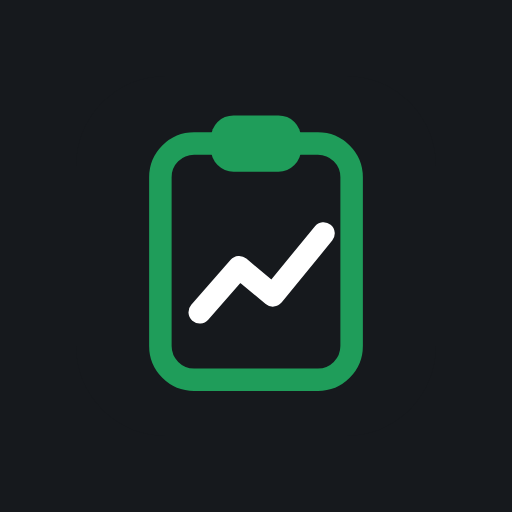
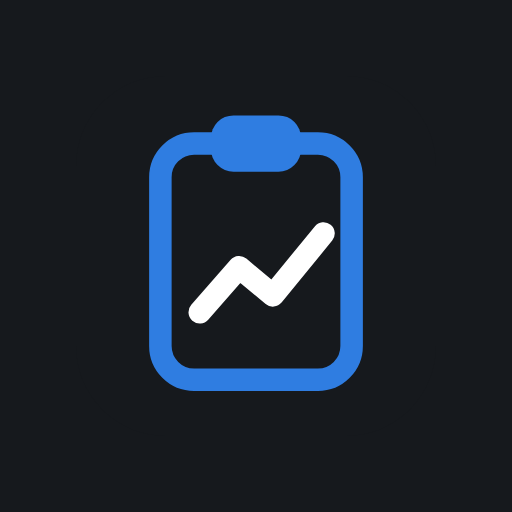
Rename to Blue Board; blue replaces every green
- Name, page titles, manifest, invite text and backup file name
- Default accent is blue (green removed, saved green accents become blue);
  new Sky blue option
- Positive numbers, "done" badges and on-budget bars are blue
- Green crew and job colors replaced with cyan and indigo
- App icons regenerated in blue

Claude-Session: https://claude.ai/code/session_01Dk7mP4ZUHrD9c3GfKoeuhX

Changed region(s): [[0.2812, 0.2188, 0.7188, 0.7812]]

diff --git a/index.html b/index.html
@@ -3,13 +3,13 @@
 <head>
 <meta charset="utf-8">
 <meta name="viewport" content="width=device-width,initial-scale=1,viewport-fit=cover">
-<title>Contractor Mainframe</title>
+<title>Blue Board</title>
 <meta name="description" content="Organize every job, track expenses, purchases, photos and crew hours, and see the real profit on each job.">
 <meta name="theme-color" content="#ffffff">
 <meta name="apple-mobile-web-app-capable" content="yes">
 <meta name="mobile-web-app-capable" content="yes">
 <meta name="apple-mobile-web-app-status-bar-style" content="default">
-<meta name="apple-mobile-web-app-title" content="Contractor Mainframe">
+<meta name="apple-mobile-web-app-title" content="Blue Board">
 <link rel="manifest" href="manifest.webmanifest">
 <link rel="icon" href="icons/icon.svg" type="image/svg+xml">
 <link rel="apple-touch-icon" href="icons/apple-touch-icon.png">
@@ -19,9 +19,9 @@
 :root{
   --bg:#f6f6f7;--surface:#ffffff;--surface2:#f3f4f6;--surface3:#e9ebee;--ink:#16191d;--muted:#5f6873;
   --line:rgba(16,24,40,.08);--line2:rgba(16,24,40,.14);
-  --hi:#17804a;--hi-dk:#0f5c34;--hi-ink:#fff;--hi-soft:rgba(23,128,74,.10);--glow:rgba(23,128,74,.28);
+  --hi:#1f63c6;--hi-dk:#164a94;--hi-ink:#fff;--hi-soft:rgba(31,99,198,.10);--glow:rgba(31,99,198,.28);
   --top-solid:#fff;--nav-float:rgba(255,255,255,.94);--bar:#3b424b;--ph:#9aa1aa;
-  --good:#1a7f4e;--good-bg:#e7f6ee;--bad:#c42b2b;--bad-bg:#fdeceb;--warn:#9a5b00;--warn-bg:#fff4dc;
+  --good:#1565c0;--good-bg:#e8f1fd;--bad:#c42b2b;--bad-bg:#fdeceb;--warn:#9a5b00;--warn-bg:#fff4dc;
   --nav:rgba(255,255,255,.88);--nav-ink:#16191d;--nav-muted:#5f6873;
   --r:20px;--r-sm:12px;--ease:cubic-bezier(.2,.7,.2,1);
   --shadow:0 1px 2px rgba(16,24,40,.05),0 8px 24px rgba(16,24,40,.06);
@@ -30,7 +30,7 @@
 :root[data-mode="dark"]{
   --bg:#0c0e11;--surface:#15181c;--surface2:#1c2025;--surface3:#262b32;--ink:#eef0f3;--muted:#98a1ac;
   --line:rgba(255,255,255,.07);--line2:rgba(255,255,255,.13);
-  --good:#45cc8f;--good-bg:rgba(69,204,143,.12);--bad:#ff7a7a;--bad-bg:rgba(255,92,92,.12);--warn:#f2b44c;--warn-bg:rgba(242,180,76,.12);
+  --good:#6aaeff;--good-bg:rgba(106,174,255,.13);--bad:#ff7a7a;--bad-bg:rgba(255,92,92,.12);--warn:#f2b44c;--warn-bg:rgba(242,180,76,.12);
   --nav:rgba(12,14,17,.82);--nav-ink:#eef0f3;--nav-muted:#98a1ac;--shadow:0 1px 0 rgba(255,255,255,.04) inset,0 12px 32px rgba(0,0,0,.32);
   --top-solid:#0c0e11;--nav-float:rgba(21,24,28,.92);--bar:#c9d0d8;--ph:#6d7680;color-scheme:dark;
 }
@@ -178,7 +178,7 @@ tfoot td{font-weight:750;border-bottom:0;border-top:1px solid var(--line2)}
 .bar{height:8px;background:var(--surface3);border-radius:999px;overflow:hidden;min-width:60px}
 .bar i{display:block;height:100%;background:var(--bar);border-radius:999px}
 .bar i.over{background:linear-gradient(90deg,#9b1c1c,var(--bad))}
-.bar i.ok{background:linear-gradient(90deg,#2f9e6c,var(--good))}
+.bar i.ok{background:linear-gradient(90deg,#1e4fa3,var(--good))}
 .mbar{display:grid;grid-template-columns:1fr 1fr;align-items:center;height:14px;min-width:120px}
 .mbar .l{display:flex;justify-content:flex-end;border-right:1px solid var(--line2);height:100%;align-items:center}
 .mbar .r{display:flex;height:100%;align-items:center}
@@ -477,9 +477,9 @@ body.gate main::before{content:"";position:fixed;inset:0;z-index:-1;pointer-even
       <div id="menu-items"></div>
     </div>
   </div>
-  <a class="brand" href="#/schedule" aria-label="Contractor Mainframe home">
+  <a class="brand" href="#/schedule" aria-label="Blue Board home">
     <svg width="32" height="32" viewBox="0 0 64 64" aria-hidden="true"><rect width="64" height="64" rx="16" fill="#16191d"/><rect x="15" y="12" width="34" height="42" rx="6" fill="none" style="stroke:var(--hi)" stroke-width="4"/><rect x="24" y="7" width="16" height="10" rx="4" style="fill:var(--hi)"/><path d="M22 42l7-8 6 5 9-11" fill="none" stroke="#fff" stroke-width="4" stroke-linecap="round" stroke-linejoin="round"/></svg>
-    <span>Contractor <em>Mainframe</em></span>
+    <span>Blue <em>Board</em></span>
   </a>
   <a class="co-top" id="co-top" href="#/profile"></a>
   <nav class="nav" aria-label="Main">
@@ -518,8 +518,8 @@ const fmtDate=s=>s?pd(s).toLocaleDateString('en-US',{month:'short',day:'numeric'
 const fmtDateY=s=>s?pd(s).toLocaleDateString('en-US',{month:'short',day:'numeric',year:'numeric'}):'';
 const toMin=t=>{const[h,m]=String(t||'0:0').split(':').map(Number);return (h||0)*60+(m||0)};
 const fmtTime=t=>{if(!t)return'';let m=toMin(t),h=Math.floor(m/60)%24,mm=m%60;const ap=h<12?'a':'p';h=h%12||12;return h+(mm?':'+pad(mm):'')+ap};
-const JOB_COLORS=['#2f6fb0','#c2571a','#2e8b57','#8a4fb5','#b8860b','#c03a5b','#1f8a8a','#6b7280'];
-const EMP_COLORS=['#2f6fb0','#2e8b57','#c2571a','#8a4fb5','#c03a5b','#1f8a8a','#b8860b','#6b7280'];
+const JOB_COLORS=['#2f6fb0','#c2571a','#0e7490','#8a4fb5','#b8860b','#c03a5b','#4f46e5','#6b7280'];
+const EMP_COLORS=['#2f6fb0','#0e7490','#c2571a','#8a4fb5','#c03a5b','#4f46e5','#b8860b','#6b7280'];
 const CATS=[['materials','Materials'],['subs','Subcontractor'],['equipment','Equipment & rentals'],['permits','Permits & fees'],['fuel','Fuel & travel'],['disposal','Dumpster & disposal'],['other','Other']];
 const CAT_NAME=Object.fromEntries(CATS);
 const EST=[['materials','Materials'],['labor','Labor'],['subs','Subcontractors'],['equipment','Equipment'],['other','Other / fees']];
@@ -610,7 +610,7 @@ function jobForm(j){const isNew=!j;j=j||{status:'active',est:{},start:today()};c
       ${field('Start',inp('start',j.start,'date'))}${field('Finish',inp('end',j.end,'date'))}</div>
       <fieldset><legend>Your estimate (what you bid it at)</legend><div class="fields three keep">
       ${EST.map(([k,l])=>field(l,moneyInp('est_'+k,e[k]))).join('')}</div>
-      <p class="note" style="margin-top:8px">Fill these in from your bid. Contractor Mainframe compares them to what you actually spend, so you can see where your estimates run high or low.</p></fieldset>
+      <p class="note" style="margin-top:8px">Fill these in from your bid. Blue Board compares them to what you actually spend, so you can see where your estimates run high or low.</p></fieldset>
       ${planFields(j)}
       ${field('Notes',`<textarea name="notes">${esc(j.notes)}</textarea>`)}`,
     onOpen:planWire,
@@ -693,7 +693,7 @@ function empForm(e){const isNew=!e;e=e||{burden:S.settings.burden,active:true,co
     body:`<div class="fields">${field('Name',inp('name',e.name,'text','required'),'full')}
       ${field('Role',inp('role',e.role,'text','placeholder="e.g. Lead carpenter"'))}${field('Phone',inp('phone',e.phone,'tel'))}
       ${field('Hourly pay',moneyInp('rate',e.rate,'required'))}${field('Labor burden %',moneyInp('burden',e.burden))}
-      ${field('Color',`<select name="color">${EMP_COLORS.map((c,i)=>opt(c,['Blue','Green','Orange','Purple','Rose','Teal','Gold','Gray'][i],e.color)).join('')}</select>`)}
+      ${field('Color',`<select name="color">${EMP_COLORS.map((c,i)=>opt(c,['Blue','Cyan','Orange','Purple','Rose','Indigo','Gold','Gray'][i],e.color)).join('')}</select>`)}
       <label class="check" style="align-self:end;min-height:42px"><input type="checkbox" name="active" ${e.active!==false?'checked':''}> Active on the crew</label></div>
       <p class="note">Labor burden covers payroll taxes, workers' comp and other costs on top of wages (often 15–30%). It's added to job costs so profit is real. A new pay rate applies to shifts added from now on.</p>`,
     onDelete:isNew?null:()=>{if(S.shifts.some(s=>s.empId===e.id)){e.active=false;toast('Marked inactive (they have hours on record)')}else S.employees=S.employees.filter(x=>x.id!==e.id);save()},
@@ -955,17 +955,17 @@ function pageProfile(){const p=S.profile||{};
   <div class="stack"><div class="card stack"><h2>Look &amp; brand</h2>
     <div class="logo-row"><div class="logo-box">${p.logo?`<img src="${esc(p.logo)}" alt="Company logo">`:'<span class="note">No logo</span>'}</div>
       <div class="btns"><label class="btn sm" style="flex-direction:row;color:var(--ink)">${p.logo?'Change logo':'Upload logo'}<input type="file" accept="image/*" id="logo-file" hidden></label>${p.logo?'<button class="btn sm ghost danger" data-act="logo-remove">Remove</button>':''}</div></div>
-    <div><div class="note" style="margin-bottom:8px">Accent color · <b>${(ACCENTS[p.accent]||ACCENTS.green)[2]}</b></div><div class="swatches">${Object.entries(ACCENTS).map(([k,[c,,n]])=>`<button class="swatch" data-act="accent" data-v="${k}" style="--c:${c}" aria-pressed="${(p.accent||'green')===k}" title="${n}" aria-label="${n}"></button>`).join('')}</div></div>
+    <div><div class="note" style="margin-bottom:8px">Accent color · <b>${(ACCENTS[p.accent]||ACCENTS.blue)[2]}</b></div><div class="swatches">${Object.entries(ACCENTS).map(([k,[c,,n]])=>`<button class="swatch" data-act="accent" data-v="${k}" style="--c:${c}" aria-pressed="${(p.accent||'blue')===k}" title="${n}" aria-label="${n}"></button>`).join('')}</div></div>
     <div><div class="note" style="margin-bottom:8px">Mode</div><div class="seg" role="group" aria-label="Mode">${[['light','Light'],['dark','Dark']].map(([k,l])=>`<button data-act="mode" data-v="${k}" aria-pressed="${(p.mode||'light')===k}">${l}</button>`).join('')}</div></div>
     <p class="note">Your company name and logo show at the top of every page, between Schedule and Jobs.</p></div>
   <div class="card stack"><h2>Your business at a glance</h2>
     <ul class="list"><li><div class="grow"><b>${S.jobs.filter(j=>j.status==='active').length} active jobs</b><small>${S.jobs.filter(j=>j.status==='bid').length} bids out · ${S.jobs.filter(j=>j.status==='done').length} finished</small></div><a class="btn sm" href="#/jobs">Jobs</a></li>
     <li><div class="grow"><b>${S.employees.filter(e=>e.active!==false).length} on the crew</b><small>${S.shifts.filter(x=>x.date>=weekStart(today())&&x.date<=addDays(weekStart(today()),6)).length} shifts this week</small></div><a class="btn sm" href="#/schedule">Schedule</a></li></ul></div>
     ${accountCard()}<p class="note">${CLOUD.user?'Profile details are saved to your account.':'Profile details are saved only on this device and included in your backup file.'}</p></div></div>`}
-const ACCENTS={green:['#17804a','#0f5c34','Money green'],red:['#dc2f33','#a91e22','Red'],blue:['#1f63c6','#164a94','Blue'],navy:['#24406e','#172b4c','Navy'],
+const ACCENTS={blue:['#1f63c6','#164a94','Blue'],sky:['#0b84d8','#0864a6','Sky blue'],red:['#dc2f33','#a91e22','Red'],navy:['#24406e','#172b4c','Navy'],
   teal:['#0f7f7a','#0a5c58','Teal'],orange:['#d9661a','#a54c10','Orange'],purple:['#6d3fc0','#502c91','Purple'],charcoal:['#3b424b','#23282e','Charcoal']};
 const rgba=(hex,a)=>{const n=parseInt(hex.slice(1),16);return `rgba(${n>>16},${(n>>8)&255},${n&255},${a})`};
-function applyTheme(){const p=S.profile||{},[c,dk]=ACCENTS[p.accent]||ACCENTS.green,r=document.documentElement;
+function applyTheme(){const p=S.profile||{},[c,dk]=ACCENTS[p.accent]||ACCENTS.blue,r=document.documentElement;
   r.style.setProperty('--hi',c);r.style.setProperty('--hi-dk',dk);r.style.setProperty('--hi-soft',rgba(c,.10));r.style.setProperty('--glow',rgba(c,.28));
   r.dataset.mode=p.mode==='dark'?'dark':'light';$('meta[name="theme-color"]').content=p.mode==='dark'?'#0c0e11':'#ffffff';
   const co=p.company,logo=p.logo?`<img src="${esc(p.logo)}" alt="">`:'';
@@ -990,7 +990,7 @@ function pageSettings(){const st=S.settings;const iOS=/iphone|ipad|ipod/i.test(n
   </div><div class="stack">
   ${accountCard()}
   <div class="card stack"><h2>Install the app</h2>
-    ${standalone?'<p>You\'re using the installed app.</p>':iOS?'<p>On iPhone or iPad: open this page in <b>Safari</b>, tap the <b>Share</b> button, then <b>Add to Home Screen</b>.</p>':`<p>Install Contractor Mainframe to get its own icon and open it full-screen, even offline.</p>${deferredInstall?'<div><button class="btn primary" data-act="install">Install app</button></div>':'<p class="note">In Chrome or Edge, use the install icon in the address bar, or the browser menu → <b>Install Contractor Mainframe</b> / <b>Add to Home screen</b>.</p>'}`}</div>
+    ${standalone?'<p>You\'re using the installed app.</p>':iOS?'<p>On iPhone or iPad: open this page in <b>Safari</b>, tap the <b>Share</b> button, then <b>Add to Home Screen</b>.</p>':`<p>Install Blue Board to get its own icon and open it full-screen, even offline.</p>${deferredInstall?'<div><button class="btn primary" data-act="install">Install app</button></div>':'<p class="note">In Chrome or Edge, use the install icon in the address bar, or the browser menu → <b>Install Blue Board</b> / <b>Add to Home screen</b>.</p>'}`}</div>
   <div class="card stack"><h2>Sample data</h2><p class="note">Load a sample company to see how everything works. It replaces what's on this device, so export a backup first if you have real data.</p>
     <div class="btns"><button class="btn" data-act="sample">Load sample data</button><button class="btn danger" data-act="erase">Erase all data</button></div>
     <p class="note"><a href="#/reset">Start over on this device</a> signs out and resets the app to its first screen.</p></div>
@@ -1011,7 +1011,7 @@ function route(){const h=(location.hash||'#/schedule').slice(2),[page,id]=h.spli
   const navKey=page==='job'?'jobs':P===pageSchedule?'schedule':P===pageMyPay?'pay':P===pageEmpCrew?'crew':P===pageEmpAccount?'profile':page;
   $$('[data-nav],[data-menu]').forEach(a=>a.removeAttribute('aria-current'));$$(`[data-nav="${navKey}"],[data-menu="${navKey}"]`).forEach(a=>a.setAttribute('aria-current','page'));
   const pr=S.profile||{},me=isEmp()?emp(CLOUD.employeeId):null;$('#menu-who').innerHTML=me?`<span class="avatar" style="background:${me.color}">${esc(initials(me.name))}</span><span><b>${esc(me.name)}</b><small>${esc(me.role||'Crew')}</small></span>`:`<span class="avatar">${esc(initials(pr.name||pr.company))}</span><span><b>${esc(pr.name||'Set up your profile')}</b><small>${esc(pr.company||'Name, company, license')}</small></span>`;
-  closeMenu();applyTheme();document.title=(S.profile?.company?S.profile.company+' · ':'')+'Contractor Mainframe';
+  closeMenu();applyTheme();document.title=(S.profile?.company?S.profile.company+' · ':'')+'Blue Board';
   hydratePhotos(v);if(keepScroll)scrollTo(0,y);else scrollTo(0,0)}
 window.addEventListener('hashchange',route);
 function closeMenu(){const m=$('#menu');if(m)m.hidden=true;$('#menu-btn')?.setAttribute('aria-expanded','false')}
@@ -1046,7 +1046,7 @@ const ACT={
     save();toast(n?`Copied ${n} shift${n>1?'s':''} from last week`:'Nothing new to copy from last week');route()},
   'export':async()=>{closeMenu();toast('Preparing backup…');const photos={};for(const p of S.photos){const b=await photoGet(p.id);if(b)photos[p.id]=await new Promise(r=>{const fr=new FileReader();fr.onload=()=>r(fr.result);fr.readAsDataURL(b)})}
     const blob=new Blob([JSON.stringify({app:'job-ledger',exportedAt:new Date().toISOString(),state:S,photos})],{type:'application/json'});
-    const a=document.createElement('a');a.href=URL.createObjectURL(blob);a.download=`contractor-mainframe-backup-${today()}.json`;document.body.appendChild(a);a.click();a.remove();setTimeout(()=>URL.revokeObjectURL(a.href),5000);toast('Backup downloaded')},
+    const a=document.createElement('a');a.href=URL.createObjectURL(blob);a.download=`blue-board-backup-${today()}.json`;document.body.appendChild(a);a.click();a.remove();setTimeout(()=>URL.revokeObjectURL(a.href),5000);toast('Backup downloaded')},
   'install':async()=>{if(!deferredInstall)return;deferredInstall.prompt();await deferredInstall.userChoice;deferredInstall=null;route()},
   'sample':a=>{if(S.jobs.length&&!armTwoStep(a,'Replaces your data. Tap again'))return;loadSample()},
   'erase':async a=>{if(!armTwoStep(a,'Erases everything. Tap again'))return;if(!memOnly)await DB.clear('photos');memPhotos.clear();S=blank();save();toast('All data erased');location.hash='#/schedule';route()},
@@ -1062,7 +1062,7 @@ document.addEventListener('change',async e=>{const t=e.target;
   else if(t.id==='import-file'){const f=t.files[0];if(!f)return;try{const d=JSON.parse(await f.text());if(d.app!=='job-ledger'||!d.state)throw 0;
       openForm({title:'Restore backup?',body:`<p>This replaces everything on this device with the backup from <b>${esc(d.exportedAt?new Date(d.exportedAt).toLocaleString():'the file')}</b>: ${d.state.jobs.length} jobs, ${d.state.expenses.length} expenses, ${Object.keys(d.photos||{}).length} photos.</p>`,submit:'Replace and restore',
         onSubmit:async()=>{if(!memOnly)await DB.clear('photos');memPhotos.clear();urlCache.clear();for(const[id,u] of Object.entries(d.photos||{})){const b=await (await fetch(u)).blob();await photoPut(id,b)}S=Object.assign(blank(),d.state);S.settings=Object.assign(blank().settings,d.state.settings);save();toast('Backup restored')}})}
-    catch(err){toast('That file isn\'t a Contractor Mainframe backup')}t.value=''}});
+    catch(err){toast('That file isn\'t a Blue Board backup')}t.value=''}});
 document.addEventListener('submit',e=>{if(e.target.id==='profile-form'){e.preventDefault();const fd=new FormData(e.target);S.profile=Object.assign(S.profile||{},Object.fromEntries(['name','title','company','phone','email','license','website','address'].map(k=>[k,String(fd.get(k)||'').trim()])));save();toast('Profile saved');route();return}
   if(e.target.id==='settings-form'){e.preventDefault();const fd=new FormData(e.target);Object.assign(S.settings,{burden:num(fd.get('burden')),otThreshold:num(fd.get('otThreshold'))||40,ot:!!fd.get('ot')});save();toast('Settings saved');route()}});
 window.addEventListener('beforeinstallprompt',e=>{e.preventDefault();deferredInstall=e;if(location.hash.startsWith('#/settings'))route()});
@@ -1086,7 +1086,7 @@ const dur=m=>`${Math.floor(m/60)}h ${pad(Math.max(0,m%60))}m`;
 const mapUrl=(la,ln)=>`https://www.google.com/maps?q=${la},${ln}`;
 function sbClient(){if(CLOUD.sb)return CLOUD.sb;if(!window.supabase||!window.supabase.createClient)return null;
   CLOUD.sb=window.supabase.createClient(SB_URL,SB_KEY,{auth:{persistSession:true,autoRefreshToken:true,detectSessionInUrl:false}});return CLOUD.sb}
-const normState=st=>Object.assign(blank(),st,{settings:Object.assign(blank().settings,st.settings||{}),profile:st.profile||{}});
+const normState=st=>{const o=Object.assign(blank(),st,{settings:Object.assign(blank().settings,st.settings||{}),profile:st.profile||{}});if(o.profile.accent==='green')o.profile.accent='blue';o.employees.forEach(e=>{if(e.color==='#2e8b57')e.color='#0e7490';if(e.color==='#1f8a8a')e.color='#4f46e5'});return o};
 
 async function cloudStart(){const sb=sbClient();if(!sb){CLOUD.mode='local';return}
   let session=null;try{({data:{session}}=await sb.auth.getSession())}catch(e){}
@@ -1122,7 +1122,7 @@ async function cloudPush(){if(!isOwnerCloud())return;const sb=CLOUD.sb,cid=CLOUD
     CLOUD.stateAt=at;LS.set('stateAt',at);LS.set('dirty','0');CLOUD.sync='synced'}
   catch(e){CLOUD.sync='offline'}syncBadge()}
 function publicDoc(){const cut=addDays(today(),-120),p=S.profile||{};
-  return{company:{name:p.company||'',logo:p.logo||'',accent:p.accent||'green',mode:p.mode||'light'},
+  return{company:{name:p.company||'',logo:p.logo||'',accent:p.accent==='green'?'blue':(p.accent||'blue'),mode:p.mode||'light'},
     settings:{ot:S.settings.ot!==false,otThreshold:num(S.settings.otThreshold)||40,requireLocation:!!S.settings.requireLocation,showPay:S.settings.showPay!==false},
     jobs:S.jobs.map(j=>({id:j.id,name:j.name,address:j.address||'',status:j.status,start:j.start||'',end:j.end||'',color:jobColor(j)})),
     employees:S.employees.map(e=>({id:e.id,name:e.name,role:e.role||'',color:e.color,active:e.active!==false})),
@@ -1149,7 +1149,7 @@ function applyPunches(){let changed=false;
 /* ----- employee ----- */
 function empApply(pub,rate,punches){pub=pub||{};CLOUD.pub=pub;CLOUD.myRate=rate;CLOUD.punches=punches||[];
   S=Object.assign(blank(),{jobs:pub.jobs||[],employees:pub.employees||[],shifts:pub.shifts||[],settings:Object.assign(blank().settings,pub.settings||{}),
-    profile:{company:pub.company?.name||'',logo:pub.company?.logo||'',accent:pub.company?.accent||'green',mode:LS.get('empMode')||pub.company?.mode||'light'}})}
+    profile:{company:pub.company?.name||'',logo:pub.company?.logo||'',accent:pub.company?.accent==='green'?'blue':(pub.company?.accent||'blue'),mode:LS.get('empMode')||pub.company?.mode||'light'}})}
 function empApplyCache(){try{const c=JSON.parse(LS.get('empCache')||'null');if(c)empApply(c.pub,c.rate,c.punches)}catch(e){}}
 async function empLoad(){const sb=CLOUD.sb,cid=CLOUD.company;
   const [a,b,c]=await Promise.all([sb.from('company_public').select('data').eq('company_id',cid).maybeSingle(),
@@ -1178,7 +1178,7 @@ function syncBadge(){const el=$('.menu-sync');if(el)el.textContent=syncText()}
 /* ----- pages: sign in, set up ----- */
 function pageAuth(){const code=LS.get('invite'),tab=UI.authTab||(code?'up':'in');
   return `<div class="auth"><div class="card auth-card stack">
-    <div class="auth-logo">${$('.brand svg').outerHTML.replace('width="32" height="32"','width="44" height="44"')}<div><h1>Contractor Mainframe</h1><p class="note">${code?'You\'ve been invited to join a crew.':'Sign in to your company\'s mainframe.'}</p></div></div>
+    <div class="auth-logo">${$('.brand svg').outerHTML.replace('width="32" height="32"','width="44" height="44"')}<div><h1>Blue Board</h1><p class="note">${code?'You\'ve been invited to join a crew.':'Sign in to your company\'s board.'}</p></div></div>
     ${code?`<div class="insight good"><b>Invite</b><span>Code <b>${esc(code.slice(0,4)+'-'+code.slice(4))}</b>. ${tab==='up'?'Create your account':'Sign in'} to join the crew.</span></div>`:''}
     <div class="seg" role="group" aria-label="Account">${[['in','Sign in'],['up','Create account']].map(([k,l])=>`<button data-act="auth-tab" data-v="${k}" aria-pressed="${tab===k}">${l}</button>`).join('')}</div>
     <form id="auth-form" class="stack" novalidate data-tab="${tab}">
@@ -1192,7 +1192,7 @@ function pageAuth(){const code=LS.get('invite'),tab=UI.authTab||(code?'up':'in')
 function pageOnboard(){const co=S.profile?.company||'';const hasLocal=S.jobs.length||S.employees.length;
   return `<div class="page-head"><div><h1>Welcome${CLOUD.user?.email?', '+esc(CLOUD.user.email.split('@')[0]):''}</h1><p class="sub">Are you running the company, or joining a crew?</p></div><button class="btn ghost" data-act="signout">Sign out</button></div>
   <div class="onb">
-    <form class="card stack" id="create-co"><h2>I run the company</h2><p class="note">Set up your company's mainframe. You'll see everything: jobs, money, schedule, crew and pay.</p>
+    <form class="card stack" id="create-co"><h2>I run the company</h2><p class="note">Set up your company's board. You'll see everything: jobs, money, schedule, crew and pay.</p>
       ${field('Company name',inp('company',co,'text','required autocomplete="organization"'))}
       ${hasLocal?`<p class="note">The ${S.jobs.length} jobs and ${S.employees.length} crew members on this device will move into your company account.</p>`:''}
       <div><button class="btn primary" type="submit">Set up my company</button></div></form>
@@ -1261,7 +1261,7 @@ function inviteDialog(e){const linked=onApp(e.id);
     onDelete:async()=>{const {error}=await CLOUD.sb.from('members').delete().eq('company_id',CLOUD.company).eq('employee_id',e.id);if(error){toast(errMsg(error));return}await loadMembers();toast('App access removed')},deleteLabel:'Remove app access'});
   const A='ABCDEFGHJKLMNPQRSTUVWXYZ23456789',r=crypto.getRandomValues(new Uint8Array(8)),code=[...r].map(x=>A[x%A.length]).join(''),show=code.slice(0,4)+'-'+code.slice(4);
   const base=location.protocol.startsWith('http')?location.origin+location.pathname:PAGES_URL,link=base+'#/join/'+code;
-  const msg=`${S.profile.company||'Your boss'} added you to Contractor Mainframe. Open ${link} on your phone and create an account to see the schedule and clock in. Invite code: ${show}`;
+  const msg=`${S.profile.company||'Your boss'} added you to Blue Board. Open ${link} on your phone and create an account to see the schedule and clock in. Invite code: ${show}`;
   openForm({title:`Invite ${e.name}`,body:`<p>Send this to <b>${esc(e.name)}</b>. They open the link on their phone, create an account, and they're on your crew.</p>
     <div class="invite-code">${show}</div>${field('Link',`<input readonly value="${esc(link)}" onfocus="this.select()">`)}
     <div class="btns"><button type="button" class="btn primary" id="copy-invite">Copy invite message</button></div><p class="note" id="inv-status">Creating the code…</p>
@@ -1271,7 +1271,7 @@ function inviteDialog(e){const linked=onApp(e.id);
       $('#copy-invite').onclick=async()=>{try{await navigator.clipboard.writeText(msg);toast('Invite copied. Paste it in a text.')}catch(err){$('#inv-status').textContent=msg}}}})}
 
 function pageReset(){return `<div class="auth"><div class="card auth-card stack">
-    <div class="auth-logo">${$('.brand svg').outerHTML.replace('width="32" height="32"','width="44" height="44"')}<div><h1>Start over</h1><p class="note">Reset Contractor Mainframe on this device.</p></div></div>
+    <div class="auth-logo">${$('.brand svg').outerHTML.replace('width="32" height="32"','width="44" height="44"')}<div><h1>Start over</h1><p class="note">Reset Blue Board on this device.</p></div></div>
     <p>This signs you out and clears everything the app saved in this browser: jobs, crew, photos, schedule and settings that live only on this device.</p>
     <div class="insight good"><b>Safe</b><span>Your account and anything already synced to it stay in the cloud. Sign back in to get it back.</span></div>
     <button class="btn primary big" data-act="reset-device">Start over</button>
@@ -1348,8 +1348,8 @@ function loadSample(){const T=today(),D=n=>addDays(T,n);
   if(!memOnly)DB.clear('photos').catch(()=>{});save();toast('Sample data loaded');location.hash='#/schedule';route()}
 
 /* ---------- start ---------- */
-(async()=>{const slow=setTimeout(()=>{$('#view').innerHTML=emptyBox('Still opening your saved data… If this doesn\'t clear in a few seconds, close any other Contractor Mainframe tabs or windows and reload.')},4000);
-  try{await DB.open();const st=await DB.get('kv','state');if(st){S=Object.assign(blank(),st,{settings:Object.assign(blank().settings,st.settings||{}),profile:st.profile||{}});if(S.settings.company&&!S.profile.company)S.profile.company=S.settings.company}}
+(async()=>{const slow=setTimeout(()=>{$('#view').innerHTML=emptyBox('Still opening your saved data… If this doesn\'t clear in a few seconds, close any other Blue Board tabs or windows and reload.')},4000);
+  try{await DB.open();const st=await DB.get('kv','state');if(st){S=Object.assign(blank(),st,{settings:Object.assign(blank().settings,st.settings||{}),profile:st.profile||{}});if(S.settings.company&&!S.profile.company)S.profile.company=S.settings.company;if(S.profile.accent==='green')S.profile.accent='blue';S.employees.forEach(e=>{if(e.color==='#2e8b57')e.color='#0e7490';if(e.color==='#1f8a8a')e.color='#4f46e5'})}}
   catch(e){memOnly=true;setTimeout(()=>toast('Storage is blocked here, so changes won\'t be kept'),400)}
   clearTimeout(slow);
   try{await Promise.race([cloudStart(),new Promise(r=>setTimeout(r,9000))])}catch(e){CLOUD.mode=LS.get('local')==='1'?'local':'signedout'}

diff --git a/sw.js b/sw.js
@@ -1,5 +1,5 @@
-// Contractor Mainframe service worker: makes the app open offline. Bump VERSION on each release.
-const VERSION = 'cm-v11';
+// Blue Board service worker: makes the app open offline. Bump VERSION on each release.
+const VERSION = 'bb-v12';
 const SHELL = ['./', './index.html', './manifest.webmanifest', './icons/icon.svg', './icons/icon-192.png', './icons/icon-512.png', './icons/apple-touch-icon.png', './vendor/supabase.js', './vendor/manrope.woff2'];
 self.addEventListener('install', e => {
   e.waitUntil(caches.open(VERSION).then(c => c.addAll(SHELL)).then(() => self.skipWaiting()));

diff --git a/README.md b/README.md
@@ -1,4 +1,4 @@
-# Contractor Mainframe
+# Blue Board
 
 Jobsite organization and profit tracking for contractors. An installable web
 app (PWA): add it to a phone's home screen and it works offline.
